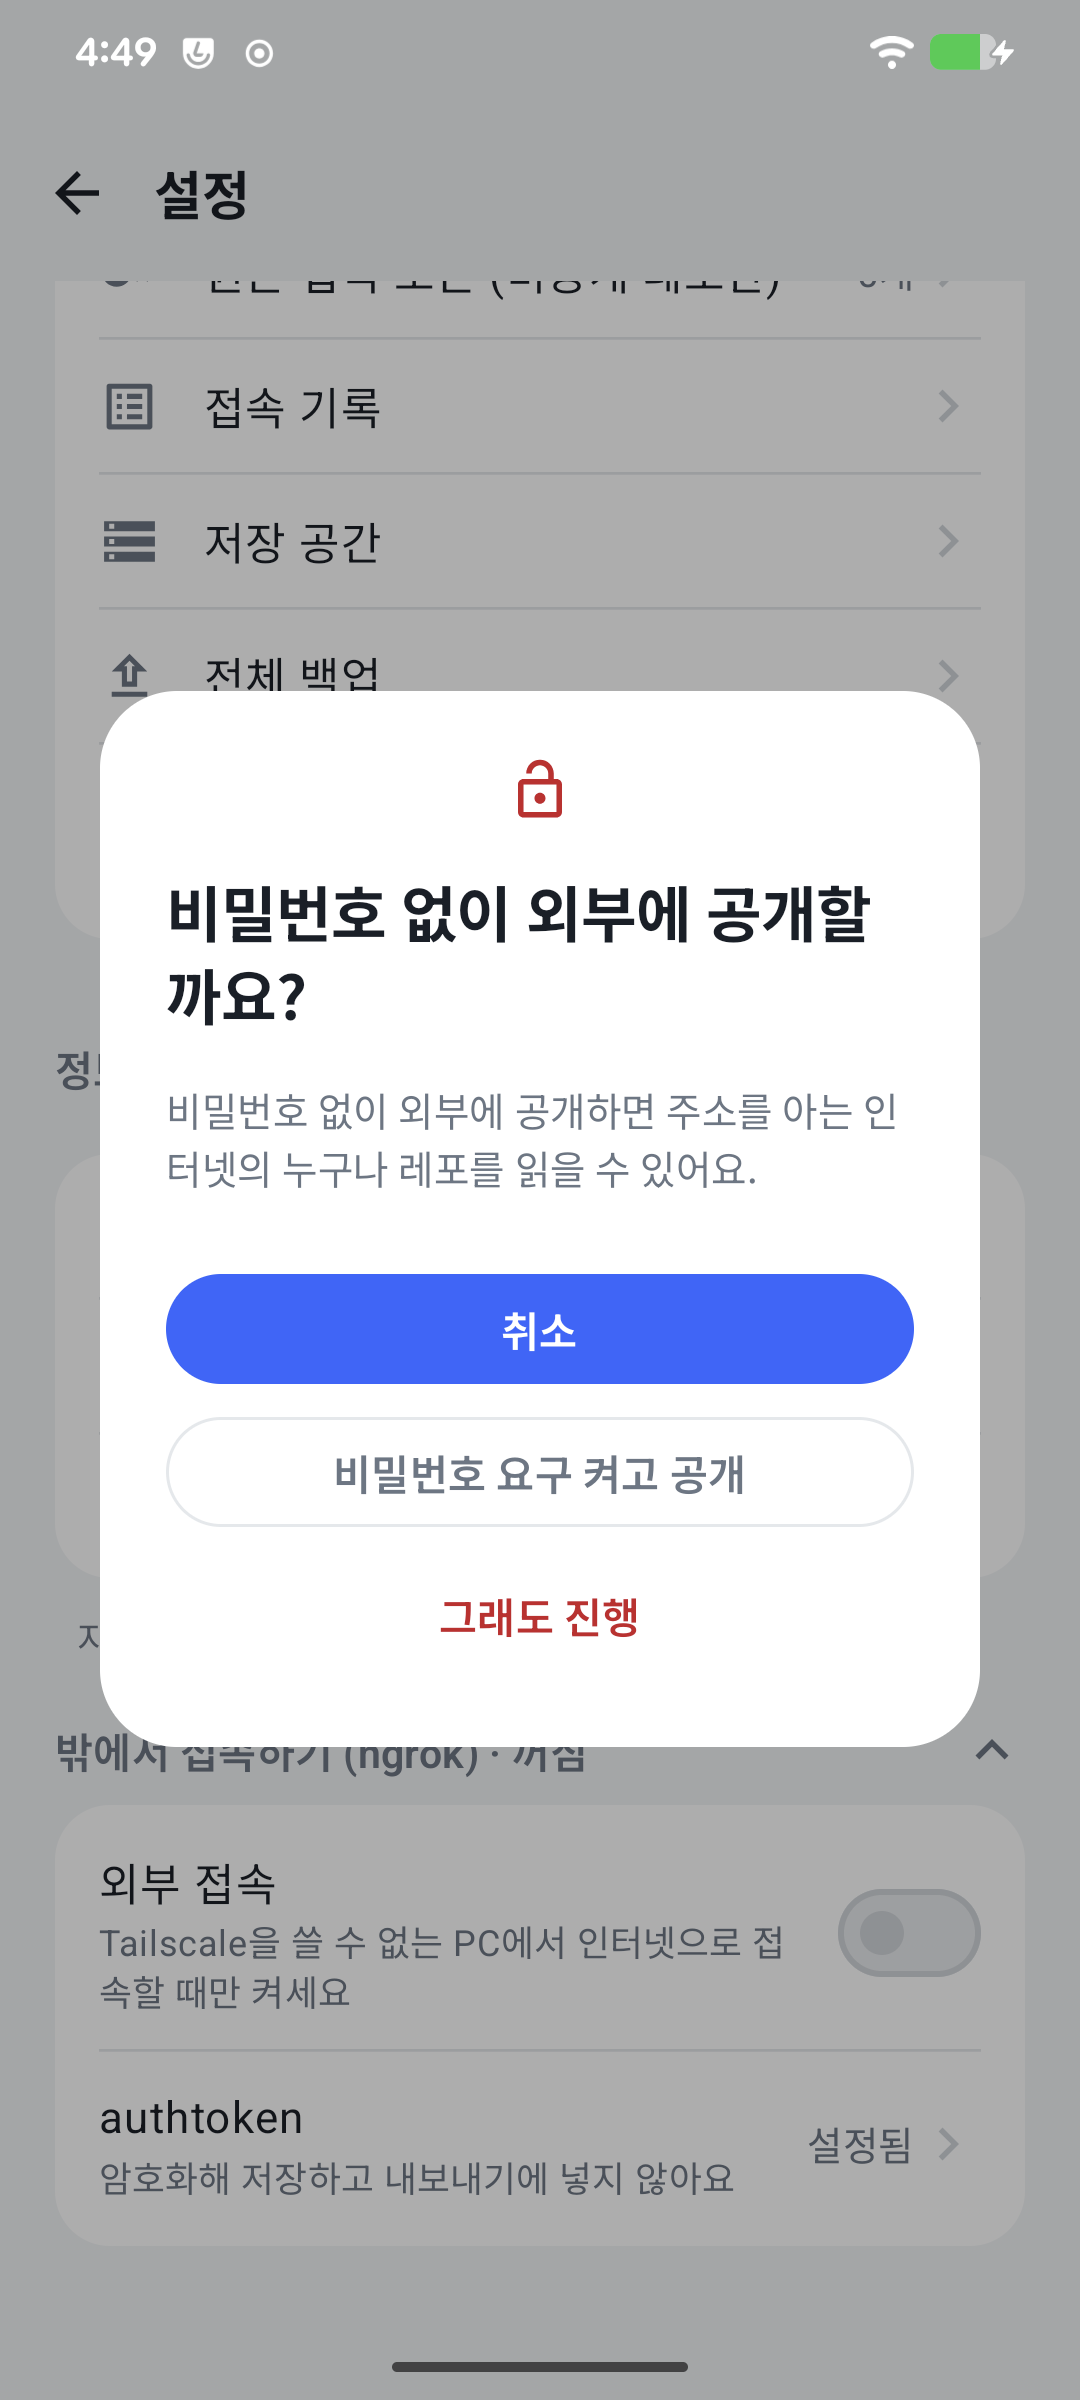
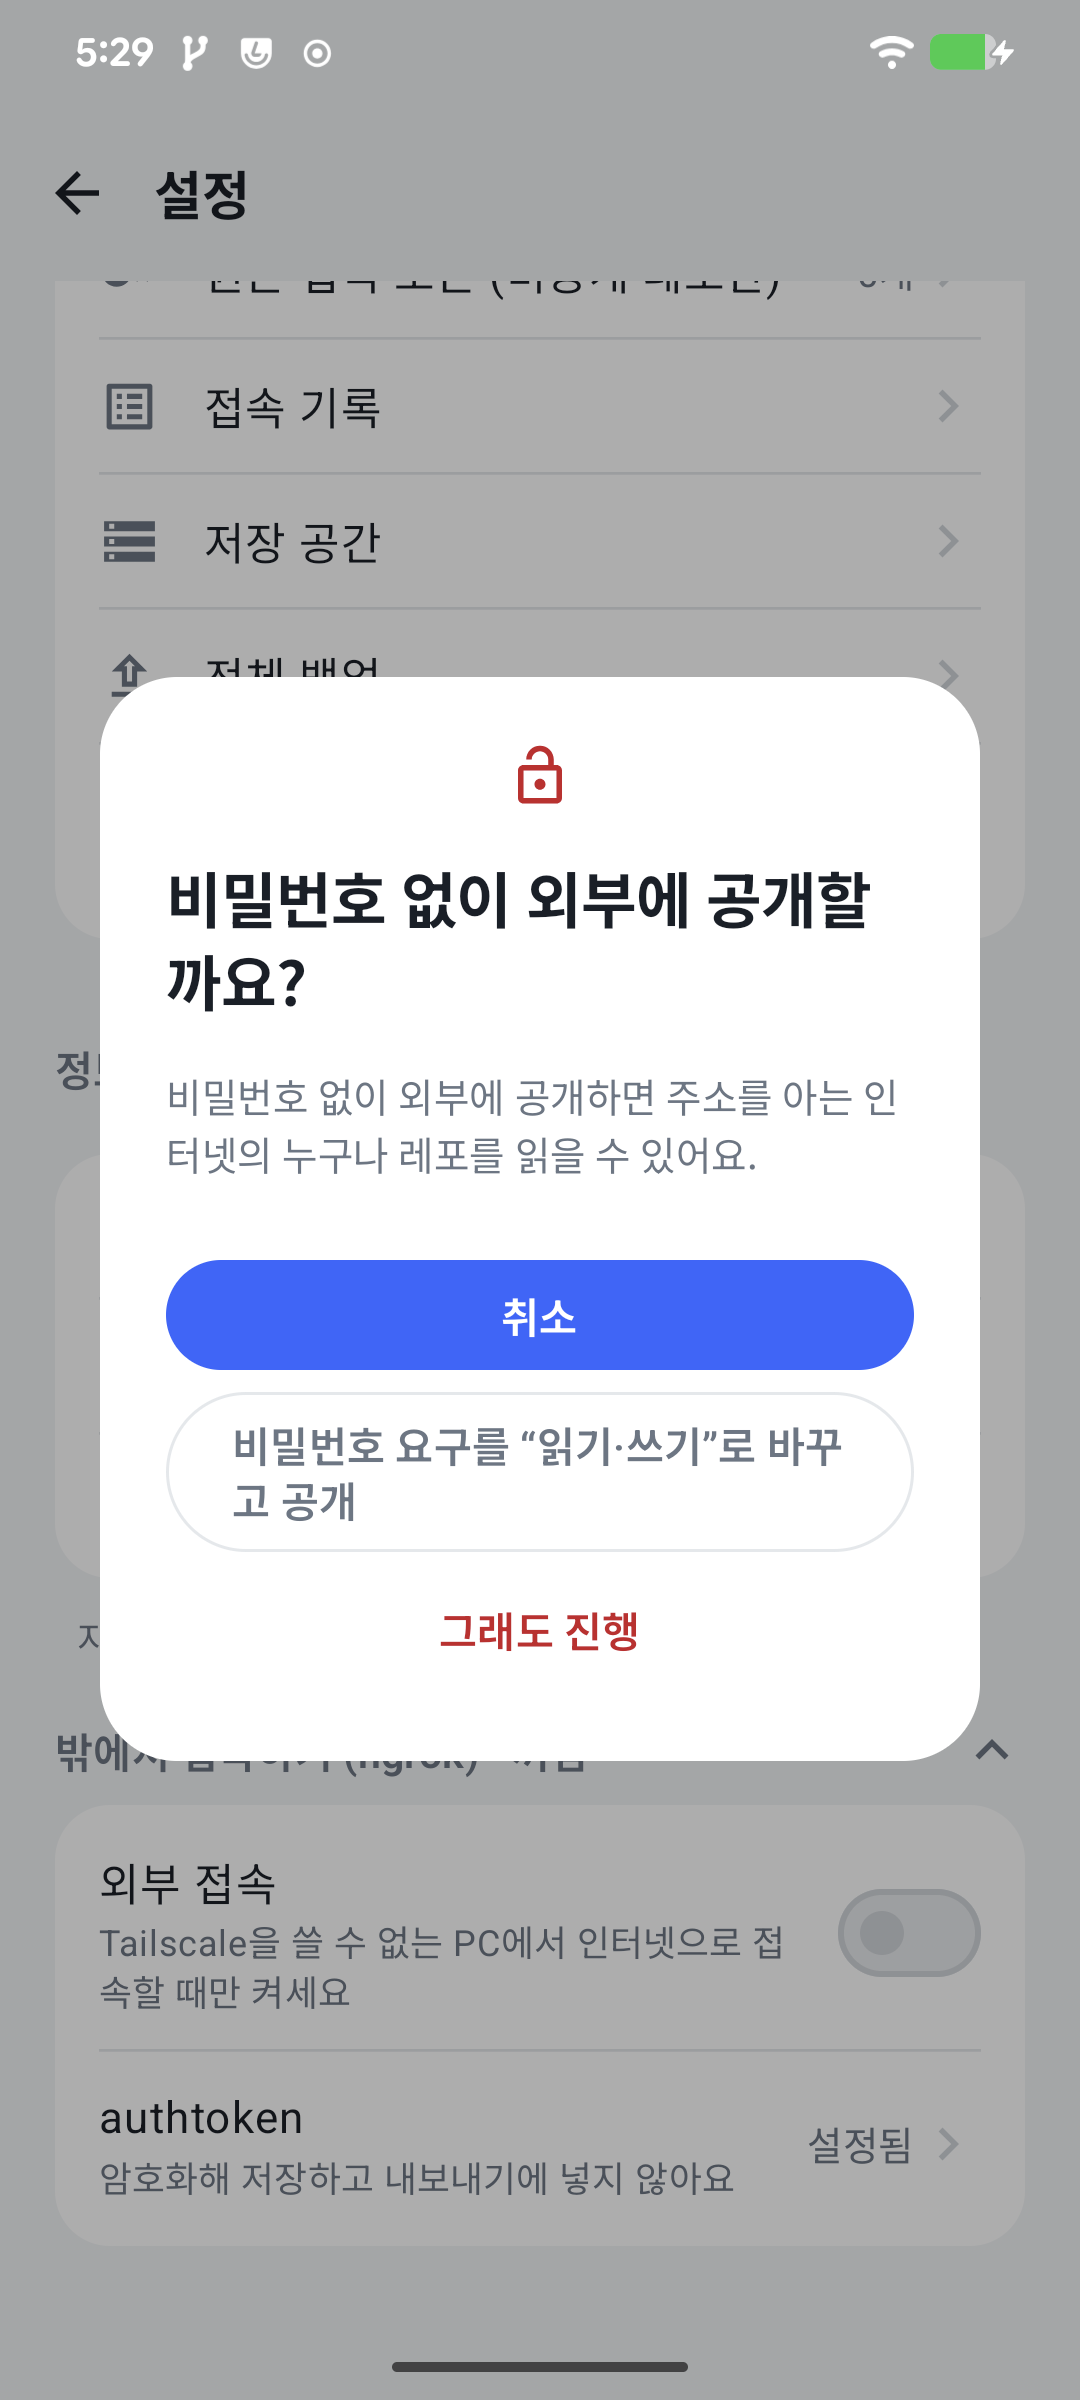
docs(qa): round 2 re-verification of QA2-01..05

diff --git a/docs/qa/round2/report.md b/docs/qa/round2/report.md
@@ -110,3 +110,45 @@
 - R2-15 전부, R2-16 AC2, R2-17 AC1의 360dp: 시스템 설정(테더링, 알림 권한, 화면 크기)을 바꿔야 함.
 - R2-09 AC2: 자격 증명 화면의 미러 이름 펼치기.
 - R2-11 AC3, R2-04 AC3: 기기 상태를 만들 수 없어 코드로만 확인.
+
+## 재검증 (코어 8b342dc, 안드로이드 UI 38ea6c3)
+
+같은 기기 d418f2d1에 `installDebug`로 설치해 확인했다. 테스트 미러 `design-tokens`는 다시 만들었다가 지웠다 (레포 15개 그대로). ngrok은 가짜 토큰 `qa-fake-token`으로만 시험했고, 끝난 뒤 토큰 지움, ngrok 꺼짐, 비밀번호 요구 읽기·쓰기(익명 읽기 꺼짐), 포트 8080, 서버 켜짐을 settings.json으로 확인했다. 위 본문의 샷 번호 가운데 19, 21, 24는 이번에 새 화면으로 바꿨다 (README 참고).
+
+| 결함 | 결과 | 근거 |
+|---|---|---|
+| QA2-01 | 해결 | (1) PC 서버만 끄고 adb reverse 유지(끊긴 연결, `unexpected end of stream … not found`) → 이력 `NETWORK`, 행 "업데이트 실패 · 네트워크 오류 · 방금부터", 알림 "동기화 실패", originStatus OK 유지. (2) 원본 폴더를 숨기고 서버 켬(진짜 404) → `ORIGIN_GONE`, 행 "원본 없음 · 방금부터". (3) 그 상태에서 서버를 끔 → `NETWORK`, 행 "업데이트 실패 · 네트워크 오류", originStatus UNKNOWN. adb reverse까지 지운 연결 거부도 `NETWORK`. 샷 26~28 |
+| QA2-02 | 해결 | push만 설명이 "clone과 웹 화면은 비밀번호 없이 열려요 (ngrok 포함). push와 폰 안(127.0.0.1)은 비밀번호가 필요해요"로 바뀜. 경고 대화상자의 대안 버튼은 "비밀번호 요구를 “읽기·쓰기”로 바꾸고 공개". 샷 18, 19 |
+| QA2-03 | 해결 (메인) | 위험 조합 + 거부된 토큰에서 메인 배너 제목이 "외부 공개 실패 (ngrok)", 본문 끝에 "연결되면 비밀번호 없이 공개돼요." 설정 화면에는 같은 문제가 남음 (QA2-06). 샷 20 |
+| QA2-04 | 해결 | ngrok이 켜진 채 force-stop 뒤 실행 → ngrokEnabled false, 앱 안 배너 "외부 공개는 꺼진 채로 다시 시작했어요", 서버 상태 알림 펼친 본문에 같은 문장. 접힌 알림 한 줄에는 주소만 보인다. 샷 21, 21b |
+| QA2-05 | 해결 | 칩 줄(포크 숨기기, 보관된 레포 숨기기)과 "8개 중 6개 표시 · 전체 선택" 줄이 나뉘어 잘림 없음 (393dp). 샷 24 |
+
+R2-06 경고 대화상자 재확인 (가짜 토큰):
+
+| 순서 | 버튼 | 저장 결과 |
+|---|---|---|
+| push만 → ngrok 켜기 | 취소 | ngrok 꺼짐, push만 그대로 (저장 안 됨) |
+| push만 → ngrok 켜기 | 비밀번호 요구를 "읽기·쓰기"로 바꾸고 공개 | ngrok 켜짐, 읽기·쓰기 |
+| ngrok 켜짐 → push만 | 취소 | 그대로 (ngrok 켜짐, 읽기·쓰기) |
+| ngrok 켜짐 → push만 | 외부 공개 끄고 바꾸기 | ngrok 꺼짐, push만 |
+| push만 → ngrok 켜기 | 그래도 진행 | ngrok 켜짐, push만 (허용). 터널은 토큰 거부로 실패 |
+
+ngrok 주소로 익명 clone(R2-06 AC5)은 여전히 실제 토큰이 없어 확인 불가다.
+
+### QA2-06 설정에서 터널이 실패해도 "비밀번호 없이 공개 중" (낮음, 안드로이드 UI)
+- 현상: 위험 조합에서 터널이 실패하면 메인 배너는 고쳐졌지만, 설정의 ngrok 영역은 제목 "밖에서 접속하기 (ngrok) · 실패" 바로 아래에 "비밀번호 없이 공개 중"을 보여 준다. 실제로는 공개되지 않았다. QA2-03과 같은 종류다.
+- 재현: 가짜 토큰 저장 → 비밀번호 요구 "push만" → 외부 접속 켜기 → "그래도 진행" → 몇 초 뒤 설정 ngrok 영역 (샷 29).
+- 기대: 메인과 같이 연결됐을 때만 "공개 중", 실패·연결 중이면 "연결되면 비밀번호 없이 공개돼요" 같은 문장.
+
+### 재검증 뒤 집계
+
+| 결과 | 개수 | 항목 |
+|---|---|---|
+| 통과 | 14 | R2-01, 02, 03, 04, 05, 07, 08, 10, 11, 12, 13, 14, 17, W-05 |
+| 부분 | 3 | R2-06 (AC5 확인 불가, QA2-06), R2-09 (AC2 미확인), R2-16 (AC2 확인 불가) |
+| 실패 | 0 | |
+| 확인 불가 | 1 | R2-15 |
+
+- R2-05: QA2-04 해결로 통과. 이번에는 force-stop 재시작 경로로 확인했고, 앱 업데이트 경로(서버가 백그라운드에서 못 켜질 때의 알림)는 코드(`Server.kt` 187행)로만 봤다.
+- R2-17: QA2-05 해결로 통과. 360dp는 여전히 기기에서 보지 못했다.
+- 남은 결함: QA2-06 (낮음, 안드로이드 UI).

diff --git a/docs/qa/round2/screenshots/README.md b/docs/qa/round2/screenshots/README.md
@@ -20,13 +20,17 @@
 | 14-server-card-qr.png | 펼친 서버 카드의 주소 옆 QR 버튼 (접힌 줄에는 없음) | R2-13 AC1 |
 | 15-new-local-guide-lfs.png | 새 로컬 레포 안내: 핫스팟·USB 테더링 줄, LFS 접힘 영역, 1GB 권장 | R2-11, R2-07 AC2 |
 | 16-fork-sheet.png | 분리 시트의 남는 것 / 바뀌는 것, 아래 안내 | R2-14 |
-| 17-export-done-notification.png | 백그라운드에서 끝난 내보내기 알림 "qa 폴더에 … 파일로 저장했어요. 암호화되지 않은 파일이에요." | R2-10 AC2, CR-9 |
-| 18-r206-no-password-ngrok-dialog.png | 비밀번호 끄기 상태에서 ngrok 켜기 경고 (취소 / 비밀번호 요구 켜고 공개 / 그래도 진행) | R2-06 AC1 |
-| 19-r206-settings-warning.png | 위험 조합 저장 뒤 설정의 "비밀번호 없이 공개 중"과 그 아래의 틀린 push만 설명 | R2-06 AC3, QA2-02 |
-| 20-r206-main-banner.png | 위험 조합에서 터널 실패인데 제목이 "비밀번호 없이 공개 중"인 배너 | QA2-03 |
-| 21-ngrok-off-after-update.png | 앱 업데이트 뒤 "외부 공개는 꺼진 채로 다시 시작했어요" (앱 안 배너) | R2-05 AC4, QA2-04 |
+| 17-export-done-notification.png | 백그라운드에서 끝난 내보내기 알림 "내보내기 완료 · qa 폴더에 …" (알림 부분만 잘라 냄) | R2-10 AC2, CR-9 |
+| 18-r206-no-password-ngrok-dialog.png | push만 상태에서 ngrok 켜기 경고 (취소 / 비밀번호 요구를 "읽기·쓰기"로 바꾸고 공개 / 그래도 진행), 재검증 빌드 | R2-06 AC1, QA2-02 |
+| 19-r206-settings-push-only-copy.png | 고친 push만 설명 "clone과 웹 화면은 비밀번호 없이 열려요 (ngrok 포함)…" | QA2-02 재검증 |
+| 20-r206-main-banner.png | 위험 조합 + 가짜 토큰: 제목 "외부 공개 실패 (ngrok)", 본문 "연결되면 비밀번호 없이 공개돼요." | QA2-03 재검증 |
+| 21-ngrok-off-after-restart-notification.png | 강제 종료 뒤 다시 실행: 서버 알림 펼친 본문의 "외부 공개는 꺼진 채로 다시 시작했어요" | R2-05 AC4, QA2-04 재검증 |
+| 21b-ngrok-off-after-restart-banner.png | 같은 상황의 앱 안 배너 | R2-05 AC4 |
 | 22-settings-sync-interval.png | 설정 요약 줄을 눌러 연 변경 확인 주기 대화상자 | R2-08 AC1 |
 | 23-storage-recalc.png | 저장 공간 "레포 용량은 방금 기준이에요"와 용량 다시 계산 | R2-17 AC2 |
-| 24-bulk-select-all-chip-clipped.png | 일괄 미러: 전체 선택은 한 줄이지만 "보관된 레포 숨기기" 칩이 잘림 | R2-17 AC1, QA2-05 |
-
-17번은 상태 표시줄 위 빠른 설정에 와이파이 이름이 보인다.
+| 24-bulk-chips-wrapped.png | 일괄 미러: 칩 줄과 "N개 중 M개 표시 · 전체 선택" 줄이 나뉨 | R2-17 AC1, QA2-05 재검증 |
+| 25-r206-reverse-order-dialog.png | ngrok 켜진 상태에서 push만으로 바꿀 때의 경고 (취소 / 외부 공개 끄고 바꾸기 / 그래도 진행) | R2-06 AC2 |
+| 26-qa201-dropped-connection-network-error.png | 끊긴 연결 → "업데이트 실패 · 네트워크 오류" | QA2-01 재검증 |
+| 27-qa201-real-404-origin-gone.png | 진짜 404 → "원본 없음" | QA2-01 재검증 |
+| 28-qa201-gone-then-network-error.png | 원본 없음 상태에서 네트워크 오류 → "업데이트 실패 · 네트워크 오류" | QA2-01 재검증 |
+| 29-qa206-settings-public-while-failed.png | 설정: 제목은 "ngrok · 실패"인데 아래에 "비밀번호 없이 공개 중" | QA2-06 |
